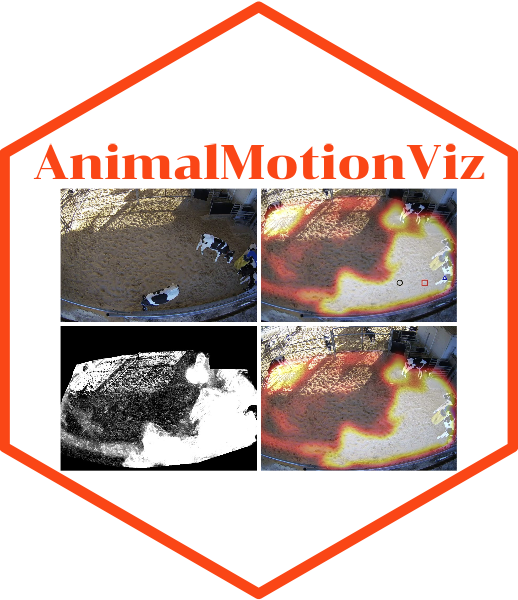
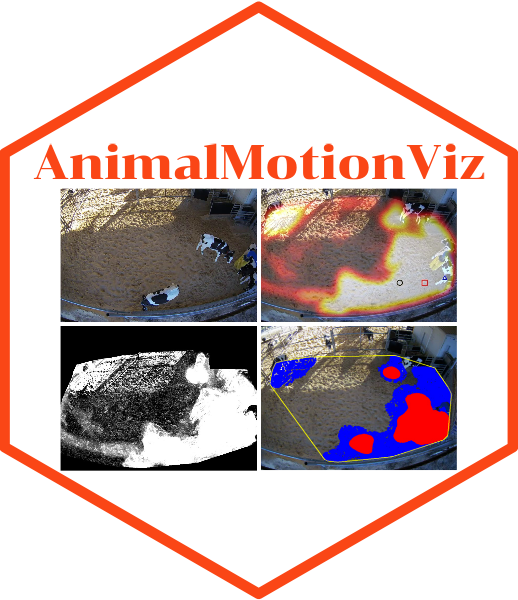
updated readme file (#2)
* modified assets

* Update README.md

* Update README.md

* Updated app.py

* Update README.md

* Delete hex

* added new hex

* Update README.md

* Update README.md

* Update README.md

---------

Changed region(s): [[0.4942, 0.54, 0.8958, 0.81]]

diff --git a/AnimalMotionViz_sourcecode/app.py b/AnimalMotionViz_sourcecode/app.py
@@ -327,7 +327,7 @@ html.Br(),
 # Step 9: Selecting colormap
 colormap_div = html.Div([
     html.Label(
-        'Step 9: Choose a colormap for visualzing the resulting motion patterns.', 
+        'Step 9: Choose a colormap for visualizing the resulting motion patterns.', 
         style={
             'font-weight': '700', 
             'font-size': '15px', 

diff --git a/README.md b/README.md
@@ -1,4 +1,4 @@
-<img src= 'https://github.com/uf-aiaos/AnimalMotionViz/blob/main/AnimalMotionViz_sourcecode/assets/AnimalMotionViz.png' height="200" align="right"/>
+<img src= 'https://github.com/uf-aiaos/AnimalMotionViz/blob/angelo/AnimalMotionViz_sourcecode/assets/AnimalMotionViz.png' height="200" align="right"/>
 <h1 align="center">AnimalMotionViz</h1>
 
 <p align="center">
@@ -10,35 +10,36 @@ An interactive software tool for tracking and visualizing animal motion patterns
 <summary>Table of Contents</summary>
 
 - [Introduction](#introduction)
-- [Section 1: Video demo for using AnimalMotionViz software](#section-1)
-  - [1.1: AnimalMotionViz demo video](#section-1-1)
-- [Section 2: Set up the environment for running AnimalMotionViz locally](#section-2)
-  - [2.1: Install conda in your local computer](#section-2-1)
-  - [2.2: Clone the AnimalMotionViz GitHub repository](#section-2-2)
-  - [2.3: Install all dependencies for using AnimalMotionViz](#section-2-3)
-  - [2.4: Activate the created conda environment "animalmotionviz" from the above step](#section-2-4)
-  - [2.5: Run "AnimalMotionViz"](#section-2-5)
+- [Section 1: Video demonstration of AnimalMotionViz](#section-1)
+  - [1.1: AnimalMotionViz online demonstration video](#section-1-1)
+- [Section 2: Setting up the environment for running AnimalMotionViz locally](#section-2)
+  - [2.1: Installing Conda in your local computer](#section-2-1)
+  - [2.2: Cloning the AnimalMotionViz GitHub repository](#section-2-2)
+  - [2.3: Installing all dependencies for using AnimalMotionViz](#section-2-3)
+  - [2.4: Activating the created Conda environment "animalmotionviz"](#section-2-4)
+  - [2.5: Running "AnimalMotionViz"](#section-2-5)
 - [Section 3 (optional): Creating a custom mask for tracking motion patterns in a specific region](#section-3)
   - [3.1: Creating a Mask using LabelMe](#section-3-1)
-    - [3.1.1:  Create a conda environment with Python installed](#section-3-1-1)
-    - [3.1.2:  Installing LabelMe using the command line](#section-3-1-2)
-    - [3.1.3:  Check the installed LabelMe version](#section-3-1-3)
-    - [3.1.4:  Open the LabelMe GUI](#section-3-1-4)
+    - [3.1.1:  Creating a Conda environment with Python installed](#section-3-1-1)
+    - [3.1.2:  Installing LabelMe](#section-3-1-2)
+    - [3.1.3:  Checking the installed LabelMe version](#section-3-1-3)
+    - [3.1.4:  Opening the LabelMe GUI](#section-3-1-4)
     - [3.1.5:  Creating a mask for the region of interest using LabelMe](#section-3-1-5)
     - [3.1.6:  Converting the .JSON files to obtain the mask image](#section-3-1-6)
 - [Section 4: How AnimalMotionViz works and its application](#section-4)
-  - [4.1: How AnimalMotionViz Works](#section-4-1)
+  - [4.1: Overview of AnimalMotionViz](#section-4-1)
   - [4.2: Guidelines on setting up the video processing parameters](#section-4-2)
     - [4.2.1:  Uploading the input video](#section-4-2-1)
     - [4.2.2:  Uploading the mask image if available](#section-4-2-2)
-    - [4.2.3:  Select a background subtraction algorithm](#section-4-2-3)
-    - [4.2.4:  Specify the interval for frame processing (e.g., every nth frame)](#section-4-2-4)
-    - [4.2.5:  Select a kernel size for the morphological operation](#section-4-2-5)
-    - [4.2.6:  Choose the overlay parameters](#section-4-2-6)
-    - [4.2.7:  Select a colormap](#section-4-2-7)
-    - [4.2.8:  Start the video processing](#section-4-2-8)
+    - [4.2.3:  Selecting a background subtraction algorithm](#section-4-2-3)
+    - [4.2.4:  Specifying the frame processing interval](#section-4-2-4)
+    - [4.2.5:  Selecting a kernel size for morphological operation](#section-4-2-5)
+    - [4.2.6:  Selecting a threshold value for filtering detected motions](#section-4-2-6)
+    - [4.2.7:  Choosing the overlay parameters](#section-4-2-7)
+    - [4.2.8:  Selecting a colormap](#section-4-2-8)
+    - [4.2.9:  Starting the video processing](#section-4-2-9)
 - [Section 5: Results](#section-5)
-  - [5.1: Motion heatmap image and video](#section-5-1)
+  - [5.1: Space-use distribution map image and video, and core and full range image](#section-5-1)
   - [5.2: Motion metrics](#section-5-2)
 - [Contact information and help](#section-contact)
 - [References](#section-reference)
@@ -48,20 +49,20 @@ An interactive software tool for tracking and visualizing animal motion patterns
 <!-- Introduction -->
 ## Introduction<a name="introduction"></a>
 
-To provide novel insight into the movement and space use of dairy cattle, we developed `AnimalMotionViz`, an open-source software tool that processes video data to monitor animal movement patterns using computer vision. The software generates a motion heatmap image and video, along with motion metrics that highlight and quantify movement intensity and patterns. This software tool aims to support the broader adoption of computer vision systems, thereby further enabling precision livestock farming. 
+To provide novel insight into the movement and space use of dairy cattle, we developed `AnimalMotionViz`, an open-source software tool that processes video data to monitor animal movement patterns using computer vision. The software generates a space-use distribution map image, a space-use distribution map video, a core and full-range image, and motion metrics, including the total and within-quadrant percentages of area used, as well as the top three peak intensity locations. This software tool aims to support the broader adoption of computer vision systems, thereby further enabling precision livestock farming. 
 
-## Section 1: Video demo for using AnimalMotionViz software <a name="section-1"></a>
+## Section 1: Video demonstration of AnimalMotionViz <a name="section-1"></a>
 
 We provide a video demo below to showcase the usage of our `AnimalMotionViz` software.
 
-### 1.1 AnimalMotionViz demo video [[Video demo](https://www.youtube.com/watch?v=tzios7Q-ymU)]<a name="section-1-1"></a>
+### 1.1 AnimalMotionViz online demonstration video [[Video demo](https://youtu.be/ar-coaOhjsk)]<a name="section-1-1"></a>
 
 
-## Section 2: Set up the environment for running AnimalMotionViz locally <a name="section-2"></a>
+## Section 2: Setting up the environment for running AnimalMotionViz locally <a name="section-2"></a>
 
-### 2.1 Install [Conda](https://conda.io/projects/conda/en/latest/user-guide/install/index.html) on your local computer<a name="section-2-1"></a>
+### 2.1 Installing [Conda](https://conda.io/projects/conda/en/latest/user-guide/install/index.html) on your local computer<a name="section-2-1"></a>
 
-### 2.2 Clone the AnimalMotionViz GitHub repository <a name="section-2-2"></a>
+### 2.2 Cloning the AnimalMotionViz GitHub repository <a name="section-2-2"></a>
 
 ```bash
 # cloning "AnimalMotionViz/" folder from GitHub
@@ -70,17 +71,17 @@ git clone https://github.com/uf-aiaos/AnimalMotionViz.git
 # change to the cloned/downloaded folder 
 cd AnimalMotionViz/
 ```
-### 2.3 Install all dependencies for using AnimalMotionViz<a name="section-2-3"></a>
+### 2.3 Installing all dependencies for using AnimalMotionViz<a name="section-2-3"></a>
 ```bash
 # "environment.yml" is available under "AnimalMotionViz/"
 conda env create -f environment.yml
 ```
-### 2.4 Activate the created conda environment "animalmotionviz" from the above step<a name="section-2-4"></a>
+### 2.4 Activating the created Conda environment "animalmotionviz"<a name="section-2-4"></a>
 ```bash
 conda activate animalmotionviz
 ```
 
-### 2.5 Run "AnimalMotionViz"<a name="section-2-5"></a>
+### 2.5 Running "AnimalMotionViz"<a name="section-2-5"></a>
 ```bash
 # change to the source code directory 
 cd AnimalMotionViz_sourcecode/
@@ -96,7 +97,7 @@ After that, open the follow link http://127.0.0.1:8050/ in your web brower and n
 
 For users interested in tracking animal motion patterns within a specific region, a mask image can be uploaded that is created using annotation tools, allowing a region of interest to be specified in the image. While this step is optional, it is recommended as it enables the definition of specific areas to be considered during video processing, thereby increasing the focus and relevance of the analysis. Below, we have provided a tutorial on creating a mask image using the open-source graphical annotation tool [LabelMe](https://github.com/labelmeai/labelme). 
 
-#### 3.1.1 Create a [conda environment](https://conda.io/projects/conda/en/latest/user-guide/install/index.html) with Python installed <a name="section-3-1-1"></a>
+#### 3.1.1 Creating a [Conda environment](https://conda.io/projects/conda/en/latest/user-guide/install/index.html) with Python installed <a name="section-3-1-1"></a>
 ```bash
 # create a conda env named `labelme`
 conda create --name labelme
@@ -105,18 +106,18 @@ conda create --name labelme
 conda activate labelme
 ```
 
-#### 3.1.2 Installing `LabelMe` using the command line<a name="section-3-1-2"></a>
+#### 3.1.2 Installing `LabelMe`<a name="section-3-1-2"></a>
 ```bash
 #installing LabelMe
 pip install labelme
 ```
 
-####  3.1.3 Check the installed `LabelMe` version <a name="section-3-1-3"></a>
+####  3.1.3 Checking the installed `LabelMe` version <a name="section-3-1-3"></a>
 ```bash
 labelme --version
 ```
 
-####  3.1.4 Open the `LabelMe` GUI<a name="section-3-1-4"></a>
+####  3.1.4 Opening the `LabelMe` GUI<a name="section-3-1-4"></a>
 ```bash
 # opening the app
 labelme 
@@ -146,9 +147,9 @@ labelme_json_to_dataset annotation.json -o annotation_json
 
 After setting up the necessary dependencies, we are ready to use the `AnimalMotionViz` software. This section provides detailed instructions on how to run and operate the `AnimalMotionViz` app. The source code of `AnimalMotionViz` is available at AnimalMotionViz_sourcecode [AnimalMotionViz_sourcecode](https://github.com/uf-aiaos/AnimalMotionViz/blob/main/AnimalMotionViz_sourcecode/).
 
-### 4.1 How AnimalMotionViz Works <a name="section-4-1"></a>
+### 4.1 Overview of AnimalMotionViz <a name="section-4-1"></a>
 
-`AnimalMotionViz` facilitates the uploading of video files via the [dash-uploader](https://github.com/fohrloop/dash-uploader) component, with an option to include an optional mask defining the Region of Interest (ROI). The software offers various background subtraction algorithms like [MOG2](https://docs.opencv.org/3.4/d7/d7b/classcv_1_1BackgroundSubtractorMOG2.html), [KNN](https://docs.opencv.org/3.4/db/d88/classcv_1_1BackgroundSubtractorKNN.html), [GMG](https://docs.opencv.org/4.x/d1/d5c/classcv_1_1bgsegm_1_1BackgroundSubtractorGMG.html), [CNT](https://docs.opencv.org/4.x/de/dca/classcv_1_1bgsegm_1_1BackgroundSubtractorCNT.html), [GSOC](https://docs.opencv.org/4.x/d4/dd5/classcv_1_1bgsegm_1_1BackgroundSubtractorGSOC.html), and [LSBP](https://docs.opencv.org/4.x/de/d4c/classcv_1_1bgsegm_1_1BackgroundSubtractorLSBP.html), implemented using OpenCV. Then users can specify the interval for frame processing (e.g., every nth frame). Users can also select a [kernel size](https://docs.opencv.org/4.x/d4/d86/group__imgproc__filter.html#gac342a1bb6eabf6f55c803b09268e36dc:~:text=Mat%20cv%3A%3AgetStructuringElement) for the [morphological operation](https://docs.opencv.org/4.x/d4/d86/group__imgproc__filter.html#ga67493776e3ad1a3df63883829375201f:~:text=%E2%97%86-,morphologyEx(),-void%20cv%3A%3AmorphologyEx), where it can mitigate small noises (birds, leaves, et.), as well as the weight [(alpha and beta)](https://docs.opencv.org/3.4/d2/de8/group__core__array.html#gafafb2513349db3bcff51f54ee5592a19:~:text=%E2%97%86-,addWeighted(),-void%20cv%3A%3AaddWeighted) of the original frame and motion heatmap overlay, respectively. Several [colormaps](https://docs.opencv.org/4.x/d3/d50/group__imgproc__colormap.html#:~:text=ColormapTypes-,Enumerations,-enum%20%C2%A0) like `Bone`, `Ocean`, `Pink`, and `Hot` are available for enhancing the visualization of the motion heatmap. The motion heatmap is generated by applying a colormap to the accumulated image obtained from background subtraction and filtering, which is then overlaid on the original frame.
+`AnimalMotionViz` facilitates the uploading of video files via the [dash-uploader](https://github.com/fohrloop/dash-uploader) component, with an option to include an optional mask defining the Region of Interest (ROI). The software offers various background subtraction algorithms like [MOG2](https://docs.opencv.org/3.4/d7/d7b/classcv_1_1BackgroundSubtractorMOG2.html), [KNN](https://docs.opencv.org/3.4/db/d88/classcv_1_1BackgroundSubtractorKNN.html), [GMG](https://docs.opencv.org/4.x/d1/d5c/classcv_1_1bgsegm_1_1BackgroundSubtractorGMG.html), [CNT](https://docs.opencv.org/4.x/de/dca/classcv_1_1bgsegm_1_1BackgroundSubtractorCNT.html), [GSOC](https://docs.opencv.org/4.x/d4/dd5/classcv_1_1bgsegm_1_1BackgroundSubtractorGSOC.html), and [LSBP](https://docs.opencv.org/4.x/de/d4c/classcv_1_1bgsegm_1_1BackgroundSubtractorLSBP.html), implemented using OpenCV. Then users can specify the interval for frame processing (e.g., every nth frame). Users can also select a [kernel size](https://docs.opencv.org/4.x/d4/d86/group__imgproc__filter.html#gac342a1bb6eabf6f55c803b09268e36dc:~:text=Mat%20cv%3A%3AgetStructuringElement) for the [morphological operation](https://docs.opencv.org/4.x/d4/d86/group__imgproc__filter.html#ga67493776e3ad1a3df63883829375201f:~:text=%E2%97%86-,morphologyEx(),-void%20cv%3A%3AmorphologyEx), where it can mitigate small noises (birds, leaves, et.), as well as the weight [(alpha and beta)](https://docs.opencv.org/3.4/d2/de8/group__core__array.html#gafafb2513349db3bcff51f54ee5592a19:~:text=%E2%97%86-,addWeighted(),-void%20cv%3A%3AaddWeighted) of the original frame and motion map overlay, respectively. Additionally, core and full range analysis is computed by applying [Kernel Density Estimation (KDE)](https://docs.scipy.org/doc/scipy/reference/generated/scipy.stats.gaussian_kde.html) to the centroids of detected [contours](https://docs.opencv.org/4.x/d3/dc0/group__imgproc__shape.html#ga2c759ed9f497d4a618048a2f56dc97f1:~:text=%E2%97%86-,contourArea(),-double%20cv%3A%3AcontourArea) representing motion. The core range identifies areas with the highest motion density (50% isopleth), while the full range captures almost all detected motion (95% isopleth). Convex hulls are also computed to outline the external boundaries of detected motion regions, providing a comprehensive view of the movements. Several [colormaps](https://docs.opencv.org/4.x/d3/d50/group__imgproc__colormap.html#:~:text=ColormapTypes-,Enumerations,-enum%20%C2%A0) like `Bone`, `Ocean`, `Pink`, and `Hot` are available for enhancing the visualization of the motion map. The space-use distribution map is generated by applying a colormap to the accumulated image obtained from background subtraction and filtering, which is then overlaid on the original frame.
 
 ### 4.2 Guidelines on setting up the video processing parameters <a name="section-4-2"></a>
 
@@ -162,37 +163,41 @@ Upload the video file for tracking animal motion patterns. The software supports
 
 You may upload a mask (e.g., label.png file created above using LabelMe) to define the region or area of interest, which can be applied during video processing. 
 
-#### 4.2.3 Select a background subtraction algorithm <a name="section-4-2-3"></a>
+#### 4.2.3 Selecting a background subtraction algorithm <a name="section-4-2-3"></a>
 
 Choose from a selection of background subtraction algorithms, including [MOG2](https://docs.opencv.org/3.4/d7/d7b/classcv_1_1BackgroundSubtractorMOG2.html), [KNN](https://docs.opencv.org/3.4/db/d88/classcv_1_1BackgroundSubtractorKNN.html), [GMG](https://docs.opencv.org/4.x/d1/d5c/classcv_1_1bgsegm_1_1BackgroundSubtractorGMG.html), [CNT](https://docs.opencv.org/4.x/de/dca/classcv_1_1bgsegm_1_1BackgroundSubtractorCNT.html), [GSOC](https://docs.opencv.org/4.x/d4/dd5/classcv_1_1bgsegm_1_1BackgroundSubtractorGSOC.html), and [LSBP](https://docs.opencv.org/4.x/de/d4c/classcv_1_1bgsegm_1_1BackgroundSubtractorLSBP.html), implemented using OpenCV.
 
-#### 4.2.4:  Specify the interval for frame processing (e.g., every nth frame) <a name="section-4-2-4"></a>
+#### 4.2.4:  Specifying the frame processing interval <a name="section-4-2-4"></a>
 
 In this step, the frame processing interval allows users to select a subset of frames from the video for analysis by choosing to process every nth frame (e.g., every 5th frame), which reduces computational load. This approach is particularly useful for long videos or when changes between consecutive frames are trivial, allowing users to capture key movements efficiently.
 
-#### 4.2.5:  Select a kernel size for the morphological operation <a name="section-4-2-5"></a>
+#### 4.2.5:  Selecting a kernel size for morphological operation <a name="section-4-2-5"></a>
 
 Here, users can specify the [kernel size](https://docs.opencv.org/4.x/d4/d86/group__imgproc__filter.html#gac342a1bb6eabf6f55c803b09268e36dc:~:text=Mat%20cv%3A%3AgetStructuringElement) for the [morphological operation](https://docs.opencv.org/4.x/d4/d86/group__imgproc__filter.html#ga67493776e3ad1a3df63883829375201f:~:text=%E2%97%86-,morphologyEx(),-void%20cv%3A%3AmorphologyEx). A smaller kernel focuses on removing minor noise while maintaining the integrity of key structures in the image. On the other hand, a larger kernel is more effective at eliminating substantial noise but may also risk removing important details or features, depending on the complexity of the image.
 
-#### 4.2.6 Choose the overlay parameters <a name="section-4-2-6"></a>
+#### 4.2.6 Selecting a threshold value for filtering detected motions <a name="section-4-2-6"></a>
 
-Customize the weight [(alpha and beta)](https://docs.opencv.org/3.4/d2/de8/group__core__array.html#gafafb2513349db3bcff51f54ee5592a19:~:text=%E2%97%86-,addWeighted(),-void%20cv%3A%3AaddWeighted) of the original frame and the motion heatmap overlay to achieve the desired visual effect. `Alpha` is the weight of the first array elements (frame image), while `Beta` is the weight of the second array elements (overlay).
+A [threshold value](https://docs.opencv.org/4.x/d3/dc0/group__imgproc__shape.html#ga2c759ed9f497d4a618048a2f56dc97f1:~:text=%E2%97%86-,contourArea(),-double%20cv%3A%3AcontourArea) can be set to filter the detected movements, focusing on more significant motions when calculating the core and full range. Increasing the threshold will exclude smaller movements and noise, allowing the analysis to focus on substantial motion patterns while reducing the effect of small noises.
 
-#### 4.2.7 Select a colormap <a name="section-4-2-7"></a>
+#### 4.2.7 Choosing the overlay parameters <a name="section-4-2-7"></a>
 
-Select from various [colormaps](https://docs.opencv.org/4.x/d3/d50/group__imgproc__colormap.html#:~:text=ColormapTypes-,Enumerations,-enum%20%C2%A0) such as Bone, Ocean, Pink, and Hot to enhance the visualization of the returned motion heatmap.
+Customize the weight [(alpha and beta)](https://docs.opencv.org/3.4/d2/de8/group__core__array.html#gafafb2513349db3bcff51f54ee5592a19:~:text=%E2%97%86-,addWeighted(),-void%20cv%3A%3AaddWeighted) of the original frame and the motion map overlay to achieve the desired visual effect. `Alpha` is the weight of the first array elements (frame image), while `Beta` is the weight of the second array elements (overlay).
 
-#### 4.2.8 Start the video processing<a name="section-4-2-8"></a>
+#### 4.2.8 Selecting a colormap <a name="section-4-2-8"></a>
+
+Select from various [colormaps](https://docs.opencv.org/4.x/d3/d50/group__imgproc__colormap.html#:~:text=ColormapTypes-,Enumerations,-enum%20%C2%A0) such as Bone, Ocean, Pink, and Hot to enhance the visualization of the returned motion space-use distribution map.
+
+#### 4.2.9 Starting the video processing<a name="section-4-2-9"></a>
 
 Run the video analysis to track and visualize animal motion patterns based on the provided parameters.
 
 ## Section 5: Results <a name="section-5"></a>
 
-### 5.1 Motion heatmap image and video <a name="section-5-1"></a>
+### 5.1 Space-use distribution map image and video, and core and full range image <a name="section-5-1"></a>
 
 ![image](AnimalMotionViz_sourcecode/assets/heatmap_image.png)
 
-![image](AnimalMotionViz_sourcecode/assets/heatmapvideo.gif)
+![image](AnimalMotionViz_sourcecode/assets/heatmap_video.gif)
 
 ### 5.2 Motion metrics <a name="section-5-2"></a>
 
@@ -201,6 +206,10 @@ Run the video analysis to track and visualize animal motion patterns based on th
 - **Overall Percentage of Used Region:** This metric represents the portion of the entire region that’s being used for movement. 
 
 - **Quadrant X Percentage of Used Region:** This metric breaks down how much space is being used for movement in each quadrant of the region. There are four quadrants, labelled 1 to 4. For each quadrant, the metric shows the percentage of the quadrant’s space that is being used.
+
+- **Core Range:** This metric measures the area of the 50% isopleth in pixels, representing the most frequently used space within the frame.
+  
+- **Full Range:** This metric measures the area of the 95% isopleth in pixels, capturing the majority of the detected movement within the frame.
 
 ![image](AnimalMotionViz_sourcecode/assets/heatmap_metrics.png)
 
